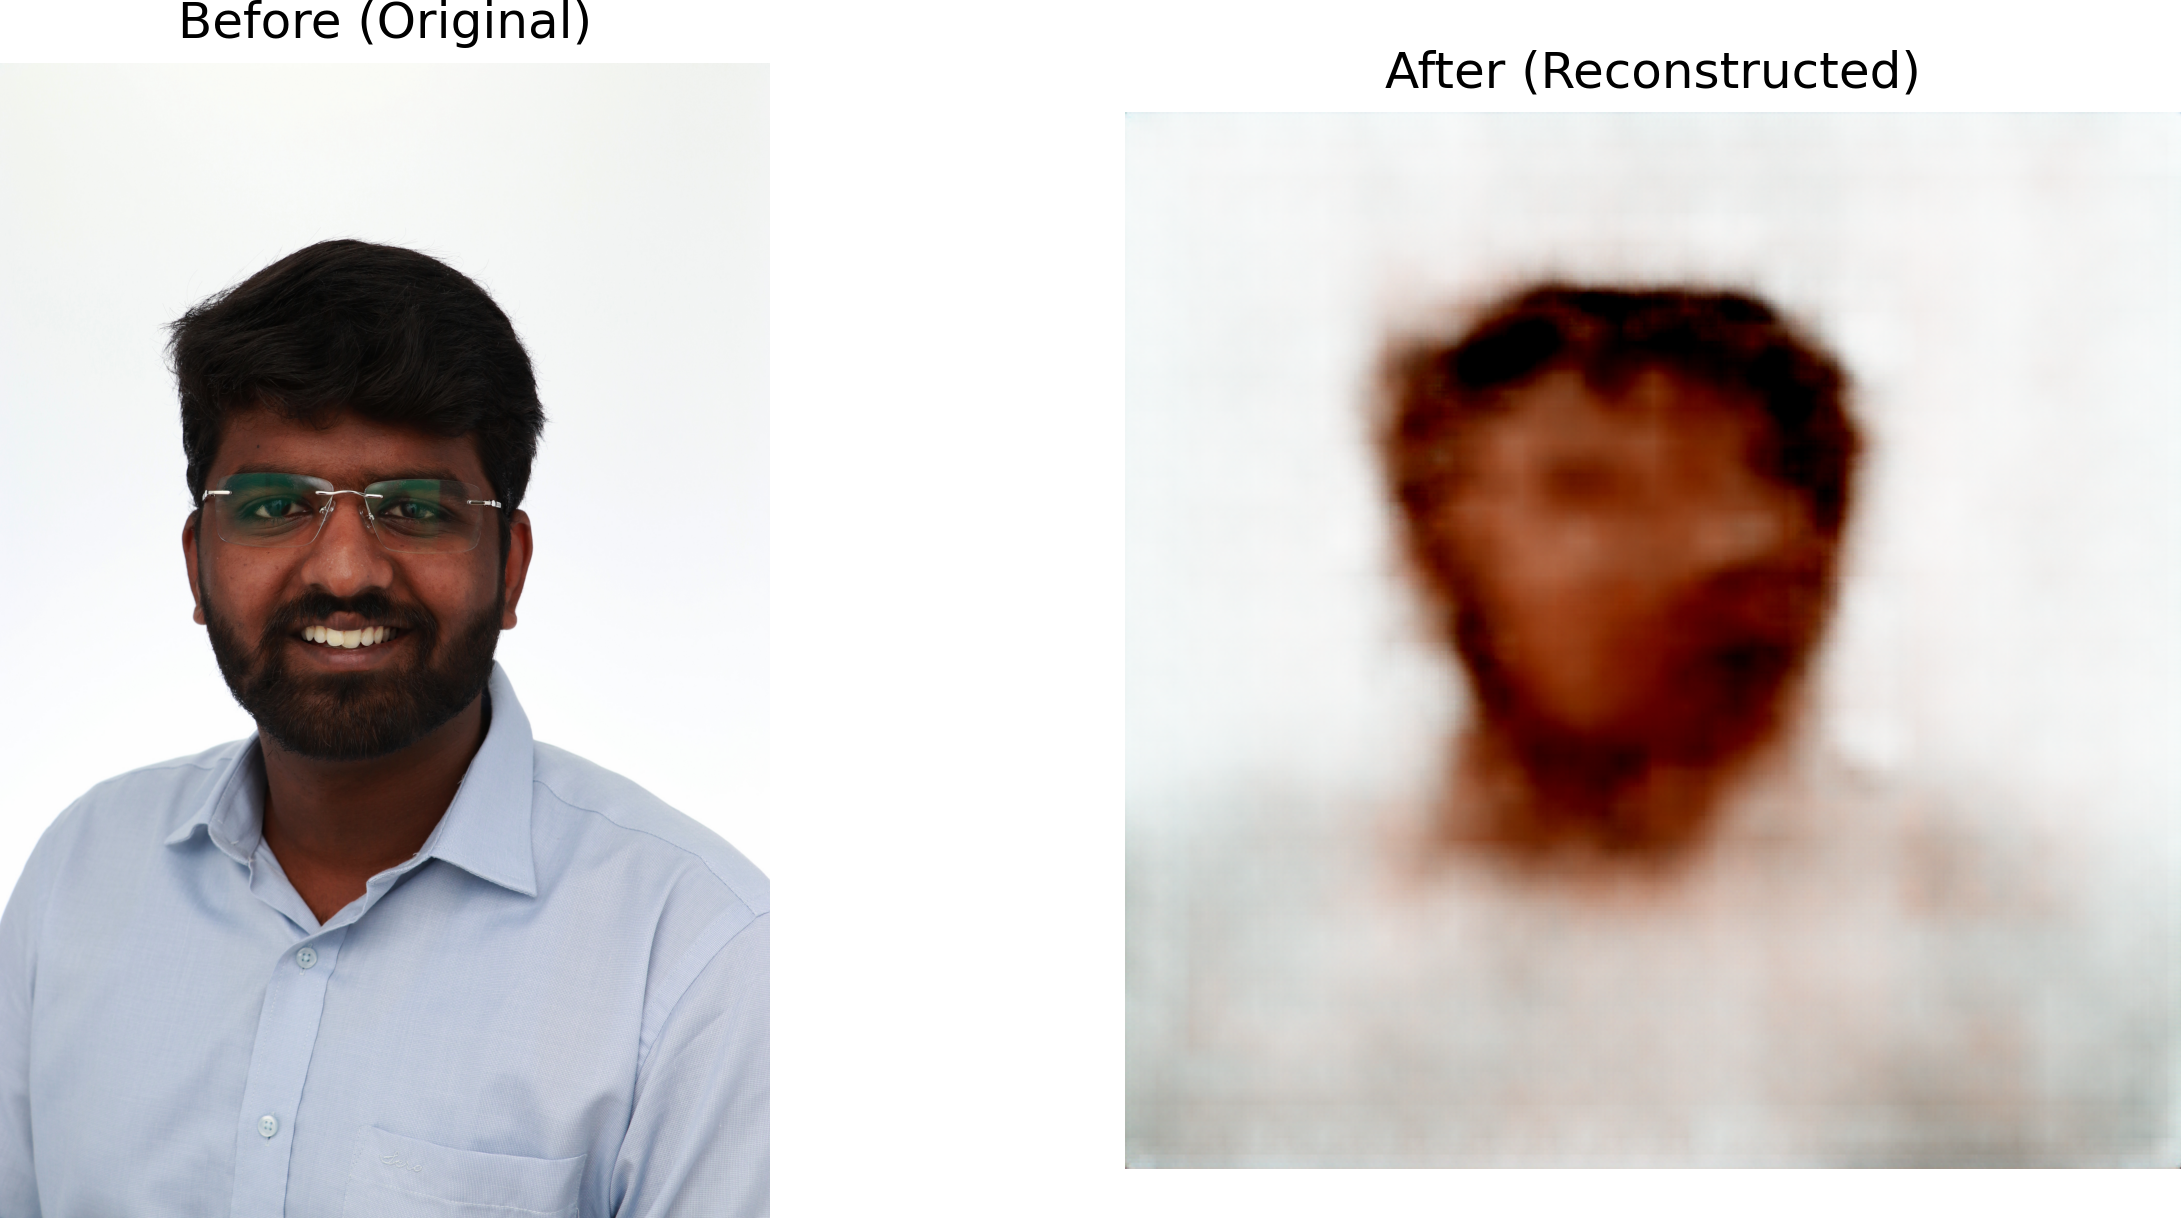
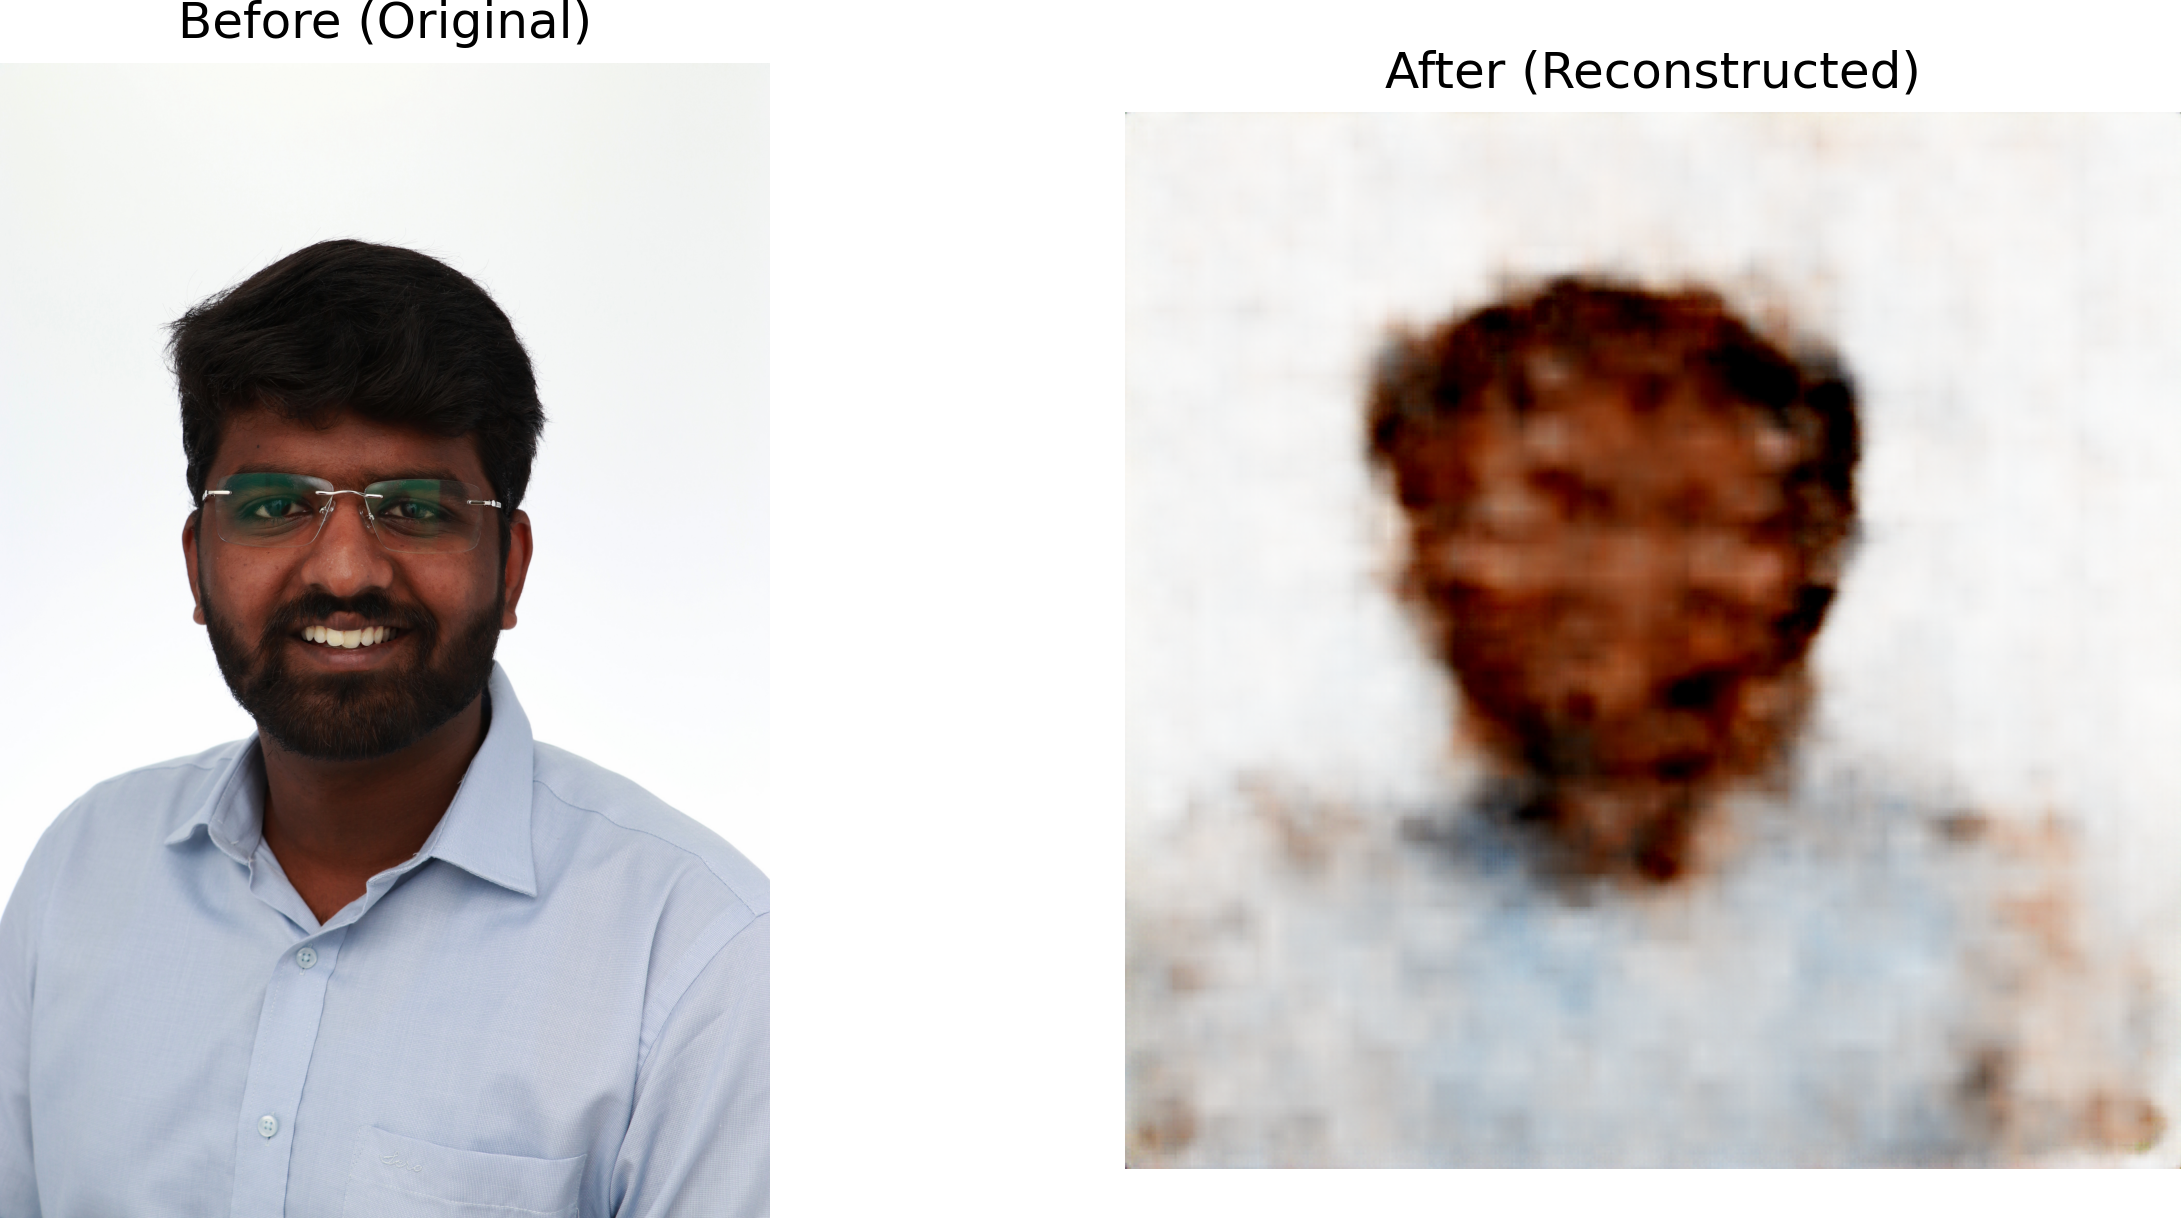
updated loading func

diff --git a/utils.py b/utils.py
@@ -10,8 +10,9 @@ def weights_init_normal(m):
             nn.init.constant_(m.bias.data, 0)
 
 def load_model(model):  
-    model.encoder.load_state_dict(torch.load(config.Encoder_path))
-    model.decoder.load_state_dict(torch.load(config.Decoder_path))
-    print("Model weights loaded...")
+    model.encoder.load_state_dict(torch.load(config.Encoder_path,map_location=torch.device('cpu')))
+    model.decoder.load_state_dict(torch.load(config.Decoder_path,map_location=torch.device('cpu')))
+    
+    print(f"Model weights loaded...")
     return model
     

diff --git a/config.py b/config.py
@@ -17,8 +17,8 @@ class Config:
     image_path = "/Users/maheshsaravanan/Desktop/FaceID/TestFolder/test1.jpg"
 
     Load_model = True
-    Encoder_path = "./checkpoints/encoder_at_Epoch5.pth"
-    Decoder_path = "./checkpoints/decoder_at_Epoch5.pth"
+    Encoder_path = "./checkpoints/encoder_at_Epoch15.pth"
+    Decoder_path = "./checkpoints/decoder_at_Epoch15.pth"
    
     split_ratios = (0.85, 0.10, 0.05)
     device ="mps" if torch.backends.mps.is_available() else "cpu"
